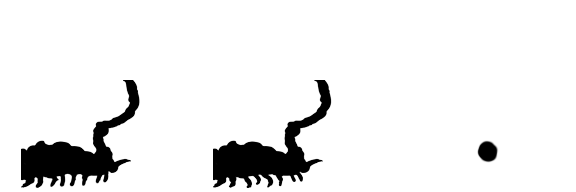
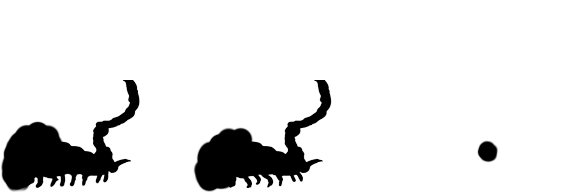
Enemy Fixes, Balancing,  Mini Code Refactoring =)

Changed region(s): [[0.0, 0.625, 0.125, 1.0], [0.3125, 0.6562, 0.4375, 1.0]]

diff --git a/js/levels/LevelOne.js b/js/levels/LevelOne.js
@@ -77,6 +77,10 @@ var LevelOne = function (game) {
 
             bg_1.x = 0;
             fg_1.x = 0;
+            
+            firstScropion = $3n3myF4ctory('_', this.enemies);
+            firstScropion.x = 570;
+            firstScropion.y = 110;
 
             enemy1 = $3n3myF4ctory('..', this.enemies);
             enemy1.x = 2353;
@@ -194,15 +198,15 @@ var LevelOne = function (game) {
 
             this.group.addEventListener('enterframe', function (e) {
                 if (bg_1.x > -(3008 - 1138)) {
-                bg_1.x -= bloodflow * $$$$;
-                fg_1.x -= bloodflow * $$$$;
+                bg_1.x -= bloodflow * GameSpeed;
+                fg_1.x -= bloodflow * GameSpeed;
                 }else if(actor.x >= (1138 - 196)){
                 	self.next();
                 }
 
 
                 for (var i = self.enemies.childNodes.length - 1; i >= 0; i--) {
-                    self.enemies.childNodes[i].x -= bloodflow * $$$$ - pulseMovement() * 2;
+                    self.enemies.childNodes[i].x -= bloodflow * GameSpeed - pulseMovement() * 2;
                     if (game.frame % 5 == 0 && !(self.enemies.childNodes[i].hasDeadSprite && self.enemies.childNodes[i].frame == self.enemies.childNodes[i].spriteCount)) {
                         self.enemies.childNodes[i].frame = ++self.enemies.childNodes[i].frame % self.enemies.childNodes[i].spriteCount;
                     }
@@ -210,7 +214,7 @@ var LevelOne = function (game) {
                 }
 
                 for (var i = self.bloods.childNodes.length - 1; i >= 0; i--) {
-                    self.bloods.childNodes[i].x -= bloodflow * $$$$;
+                    self.bloods.childNodes[i].x -= bloodflow * GameSpeed;
                     if (game.frame % 3 == 0) {
                         if (self.bloods.childNodes[i].frame + 1 == self.bloods.childNodes[i].spriteCount) {
                             self.bloods.removeChild(self.bloods.childNodes[i])
@@ -222,7 +226,7 @@ var LevelOne = function (game) {
                 }
 
                 for (var i = self.debris.childNodes.length - 1; i >= 0; i--) {
-                    self.debris.childNodes[i].x -= bloodflow * $$$$ - pulseMovement() * 2;
+                    self.debris.childNodes[i].x -= bloodflow * GameSpeed - pulseMovement() * 2;
                     if (!self.debris.childNodes[i].dying && game.frame % 5 == 0) {
                         self.debris.childNodes[i].frame = ++self.debris.childNodes[i].frame % self.debris.childNodes[i].normalSpriteCount;
                     }
@@ -243,9 +247,9 @@ var LevelOne = function (game) {
 
                 actor.ax = 0;
                 if (game.input.left)
-                    actor.ax = -0.5 * $$$$;
+                    actor.ax = -0.5 * GameSpeed;
                 else if (game.input.right)
-                    actor.ax = 0.5 * $$$$;
+                    actor.ax = 0.5 * GameSpeed;
 
                 if (actor.jumping) {
                     if (!game.input.up || --actor.jumpBoost < 0) {
@@ -253,15 +257,15 @@ var LevelOne = function (game) {
                     }
 
                     if (game.input.down) {
-                        actor.ay = 5 * $$$$;
+                        actor.ay = 5 * GameSpeed;
                         actor.dive = true;
                     }
                 } else {
                     actor.dive = false;
 
                     if (game.input.up) {
-                        actor.jumpBoost = 5 * $$$$;
-                        actor.ay = -1.75 * $$$$;
+                        actor.jumpBoost = 5 * GameSpeed;
+                        actor.ay = -1.75 * GameSpeed;
                     }
                 }
 

diff --git a/js/levels/LevelTwo.js b/js/levels/LevelTwo.js
@@ -301,15 +301,15 @@ var LevelTwo = function (game) {
             this.group.addEventListener('enterframe', function (e) {
 
                 if (bg_1.x > -(9000 - 1138)) {
-                bg_1.x -= bloodflow * $$$$;
-                fg_1.x -= bloodflow * $$$$;
+                bg_1.x -= bloodflow * GameSpeed;
+                fg_1.x -= bloodflow * GameSpeed;
                 }else if(actor.x >= 1138-196){
                 	self.next();
                 }
 
 
                 for (var i = self.enemies.childNodes.length - 1; i >= 0; i--) {
-                    self.enemies.childNodes[i].x -= bloodflow * $$$$ - pulseMovement() * 2;
+                    self.enemies.childNodes[i].x -= bloodflow * GameSpeed - pulseMovement() * 2;
                     if (game.frame % 5 == 0 && !(self.enemies.childNodes[i].hasDeadSprite && self.enemies.childNodes[i].frame == self.enemies.childNodes[i].spriteCount)) {
                         self.enemies.childNodes[i].frame = ++self.enemies.childNodes[i].frame % self.enemies.childNodes[i].spriteCount;
                     }
@@ -317,7 +317,7 @@ var LevelTwo = function (game) {
                 }
 
                 for (var i = self.bloods.childNodes.length - 1; i >= 0; i--) {
-                    self.bloods.childNodes[i].x -= bloodflow * $$$$;
+                    self.bloods.childNodes[i].x -= bloodflow * GameSpeed;
                     if (game.frame % 3 == 0) {
                         if (self.bloods.childNodes[i].frame + 1 == self.bloods.childNodes[i].spriteCount) {
                             self.bloods.removeChild(self.bloods.childNodes[i])
@@ -329,7 +329,7 @@ var LevelTwo = function (game) {
                 }
 
                 for (var i = self.debris.childNodes.length - 1; i >= 0; i--) {
-                    self.debris.childNodes[i].x -= bloodflow * $$$$ - pulseMovement() * 2;
+                    self.debris.childNodes[i].x -= bloodflow * GameSpeed - pulseMovement() * 2;
                     if (!self.debris.childNodes[i].dying && game.frame % 5 == 0) {
                         self.debris.childNodes[i].frame = ++self.debris.childNodes[i].frame % self.debris.childNodes[i].normalSpriteCount;
                     }
@@ -350,9 +350,9 @@ var LevelTwo = function (game) {
 
                 actor.ax = 0;
                 if (game.input.left)
-                    actor.ax = -0.5 * $$$$;
+                    actor.ax = -0.5 * GameSpeed;
                 else if (game.input.right)
-                    actor.ax = 0.5 * $$$$;
+                    actor.ax = 0.5 * GameSpeed;
 
                 if (actor.jumping) {
                     if (!game.input.up || --actor.jumpBoost < 0) {
@@ -360,15 +360,15 @@ var LevelTwo = function (game) {
                     }
 
                     if (game.input.down) {
-                        actor.ay = 5 * $$$$;
+                        actor.ay = 5 * GameSpeed;
                         actor.dive = true;
                     }
                 } else {
                     actor.dive = false;
 
                     if (game.input.up) {
-                        actor.jumpBoost = 5 * $$$$;
-                        actor.ay = -1.75 * $$$$;
+                        actor.jumpBoost = 5 * GameSpeed;
+                        actor.ay = -1.75 * GameSpeed;
                     }
                 }
 

diff --git a/js/levels/LevelThree.js b/js/levels/LevelThree.js
@@ -337,14 +337,14 @@ var LevelThree = function(game) {
 
 			this.group.addEventListener('enterframe', function(e) {
 					if (bg_1.x > -(9000 - 1138)) {
-                bg_1.x -= bloodflow * $$$$;
-                fg_1.x -= bloodflow * $$$$;
+                bg_1.x -= bloodflow * GameSpeed;
+                fg_1.x -= bloodflow * GameSpeed;
                 }else if(actor.x >= 1138-196){
                 	self.next();
                 }
 
 				for (var i = self.enemies.childNodes.length - 1; i >= 0; i--) {
-					self.enemies.childNodes[i].x -= bloodflow * $$$$ - pulseMovement() * 2;
+					self.enemies.childNodes[i].x -= bloodflow * GameSpeed - pulseMovement() * 2;
 					if (game.frame % 5 == 0 && !(self.enemies.childNodes[i].hasDeadSprite && self.enemies.childNodes[i].frame == self.enemies.childNodes[i].spriteCount)) {
 						self.enemies.childNodes[i].frame = ++self.enemies.childNodes[i].frame % self.enemies.childNodes[i].spriteCount;
 					}
@@ -352,7 +352,7 @@ var LevelThree = function(game) {
 				}
 
 				for (var i = self.bloods.childNodes.length - 1; i >= 0; i--) {
-					self.bloods.childNodes[i].x -= bloodflow * $$$$;
+					self.bloods.childNodes[i].x -= bloodflow * GameSpeed;
 					if (game.frame % 3 == 0) {
 						if (self.bloods.childNodes[i].frame + 1 == self.bloods.childNodes[i].spriteCount) {
 							self.bloods.removeChild(self.bloods.childNodes[i])
@@ -364,7 +364,7 @@ var LevelThree = function(game) {
 				}
 
 				for (var i = self.debris.childNodes.length - 1; i >= 0; i--) {
-                    self.debris.childNodes[i].x -= bloodflow * $$$$ - pulseMovement() * 2;
+                    self.debris.childNodes[i].x -= bloodflow * GameSpeed - pulseMovement() * 2;
 					if (!self.debris.childNodes[i].dying && game.frame % 5 == 0) {
 						self.debris.childNodes[i].frame = ++self.debris.childNodes[i].frame % self.debris.childNodes[i].normalSpriteCount;
 					}
@@ -380,9 +380,9 @@ var LevelThree = function(game) {
 
 				actor.ax = 0;
 				if (game.input.left)
-					actor.ax = -0.5 * $$$$;
+					actor.ax = -0.5 * GameSpeed;
 				else if (game.input.right)
-					actor.ax = 0.5 * $$$$;
+					actor.ax = 0.5 * GameSpeed;
 
 				if (actor.jumping) {
 					if (!game.input.up || --actor.jumpBoost < 0) {
@@ -390,12 +390,12 @@ var LevelThree = function(game) {
 					}
 
 					if (game.input.down) {
-						actor.ay = 5 * $$$$;
+						actor.ay = 5 * GameSpeed;
 					}
 				} else {
 					if (game.input.up) {
-						actor.jumpBoost = 5 * $$$$;
-						actor.ay = -1.75 * $$$$;
+						actor.jumpBoost = 5 * GameSpeed;
+						actor.ay = -1.75 * GameSpeed;
 					}
 				}
 

diff --git a/js/ggj.js b/js/ggj.js
@@ -11,10 +11,10 @@ collisionMap.enemies = {};
 collisionMap.debris = {};
 collisionMap.foreground = {};
 
-var $$$$ = 2;
+var GameSpeed = 4;
 
 if (devMode) {
-    $$$$ = 5;
+    GameSpeed = 5;
 }
 
 collisionMap.enemies['_'] = {};
@@ -137,7 +137,7 @@ var positionStage = function(scale) {
 }
 
 var pulseMovement = function() {
-    return Math.cos((5 * $$$$ * game.frame % 360) / 180 * Math.PI);
+    return Math.cos((5 * GameSpeed * game.frame % 360) / 180 * Math.PI);
 }
 
 window.onload = function() {

diff --git a/js/3n3myF4ctory.js b/js/3n3myF4ctory.js
@@ -61,7 +61,7 @@ $3n3myF4ctory = function (type, enemies) {
             enemy.image = game.assets['./images/Stachel.png'];
             enemy.enemy_id = '+';
             enemy.spriteCount = 4;
-            enemy.damage = 10;
+            enemy.damage = 2;
             enemy.bloodHeightValue = 75;
             enemy.hasDeadSprite = false;
             enemies.addChild(enemy);
